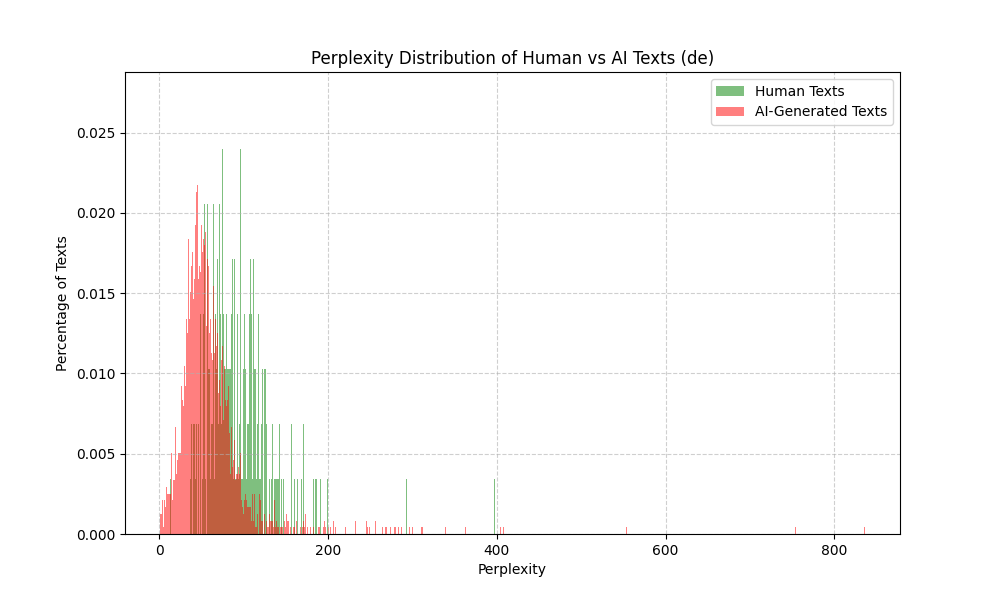
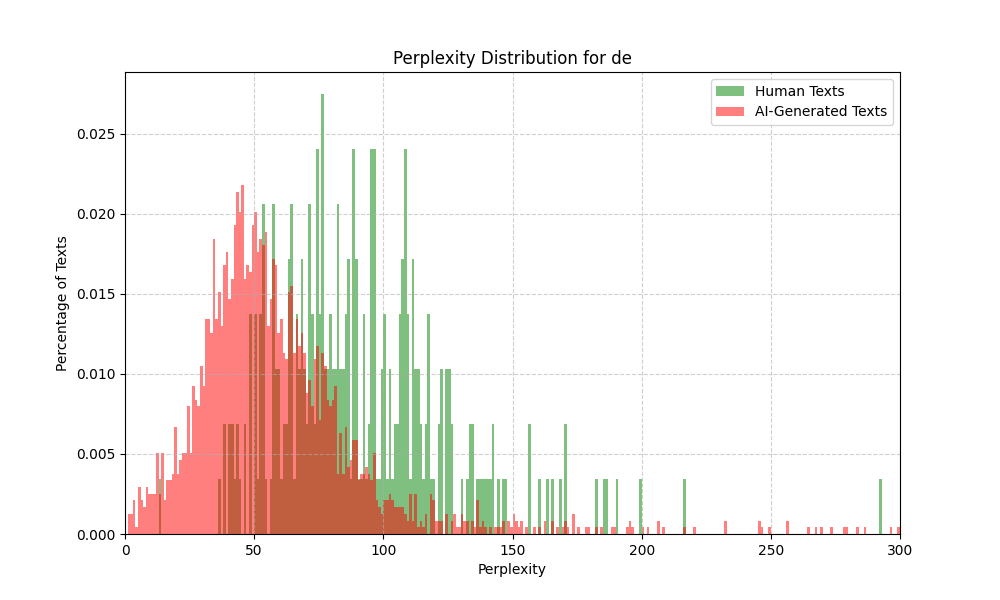
modified plots

diff --git a/data_to_plot.py b/data_to_plot.py
@@ -1,57 +1,54 @@
 import pandas as pd
 import numpy as np
-import matplotlib.pyplot as plt
 import os
+import matplotlib.pyplot as plt
 
-# Define the folder where the CSV files are stored
-csv_folder = "/home/ubuntu/perplexity/perplexity_data/"  # Update this if needed
+# Define languages with a 0-100 x-axis range
+low_range_languages = {"en", "zh", "ar", "uk", "ru"}
+
+# Folder containing the CSV files
+input_folder = "/home/ubuntu/perplexity/perplexity_data/"
 output_folder = "/home/ubuntu/perplexity/perplexity_plots/"
-
-# Ensure output folder exists
 os.makedirs(output_folder, exist_ok=True)
 
-# Get all CSV files
-csv_files = [f for f in os.listdir(csv_folder) if f.endswith(".csv")]
+# List all CSV files
+csv_files = [f for f in os.listdir(input_folder) if f.endswith(".csv")]
 
 for file in csv_files:
-    file_path = os.path.join(csv_folder, file)
+    lang = file.replace("perplexity_", "").replace(".csv", "")
+    file_path = os.path.join(input_folder, file)
     
     # Load data
     df = pd.read_csv(file_path)
+
+    # Determine x-axis limits based on language
+    x_limit = 100 if lang in low_range_languages else 300
+
+    # Extract human and AI perplexities
+    human_perplexities = df[df["label"] == 0]["perplexity"]
+    ai_perplexities = df[df["label"] == 1]["perplexity"]
+
+    # Determine min/max for binning
+    ppl_min = 0
+    ppl_max = min(max(human_perplexities.max(), ai_perplexities.max()), x_limit)
     
-    # Extract language from filename (assuming filenames are like "perplexity_en.csv")
-    language = file.replace("perplexity_", "").replace(".csv", "")
-
-    # Separate human and AI-generated perplexities
-    human_perplexities = df[df["label"] == 0]["perplexity"].tolist()
-    ai_perplexities = df[df["label"] == 1]["perplexity"].tolist()
-
-    if not human_perplexities or not ai_perplexities:
-        print(f"Skipping {language} due to insufficient data.")
-        continue
-
-    # Determine x-axis limits dynamically
-    ppl_min = min(min(human_perplexities), min(ai_perplexities))
-    ppl_max = max(max(human_perplexities), max(ai_perplexities))
-    margin = (ppl_max - ppl_min) * 0.05  # 5% margin
-
-    # Plot perplexities
+    # Plot
     plt.figure(figsize=(10, 6))
-    bins = np.arange(ppl_min, ppl_max + 1, 1)  # Bins of size 1
+    bins = np.arange(ppl_min, ppl_max + 1, 1)
     plt.hist(human_perplexities, bins=bins, alpha=0.5, color='green', label='Human Texts', density=True)
     plt.hist(ai_perplexities, bins=bins, alpha=0.5, color='red', label='AI-Generated Texts', density=True)
     plt.xlabel('Perplexity')
     plt.ylabel('Percentage of Texts')
-    plt.title(f'Perplexity Distribution of Human vs AI Texts ({language})')
-    plt.xlim(ppl_min - margin, ppl_max + margin)  # Adjust x-axis
+    plt.title(f'Perplexity Distribution for {lang}')
+    plt.xlim(ppl_min, ppl_max)
     plt.legend()
     plt.grid(True, linestyle='--', alpha=0.6)
 
-    # Save plot
-    plot_path = os.path.join(output_folder, f"perplexity_plot_{language}.png")
-    plt.savefig(plot_path)
+    # Save the plot
+    output_file = os.path.join(output_folder, f"perplexity_plot_{lang}.png")
+    plt.savefig(output_file)
     plt.close()
 
-    print(f"Saved plot for {language} as {plot_path}")
+    print(f"Saved plot for {lang} to {output_file}")
 
 print("All plots generated successfully.")
